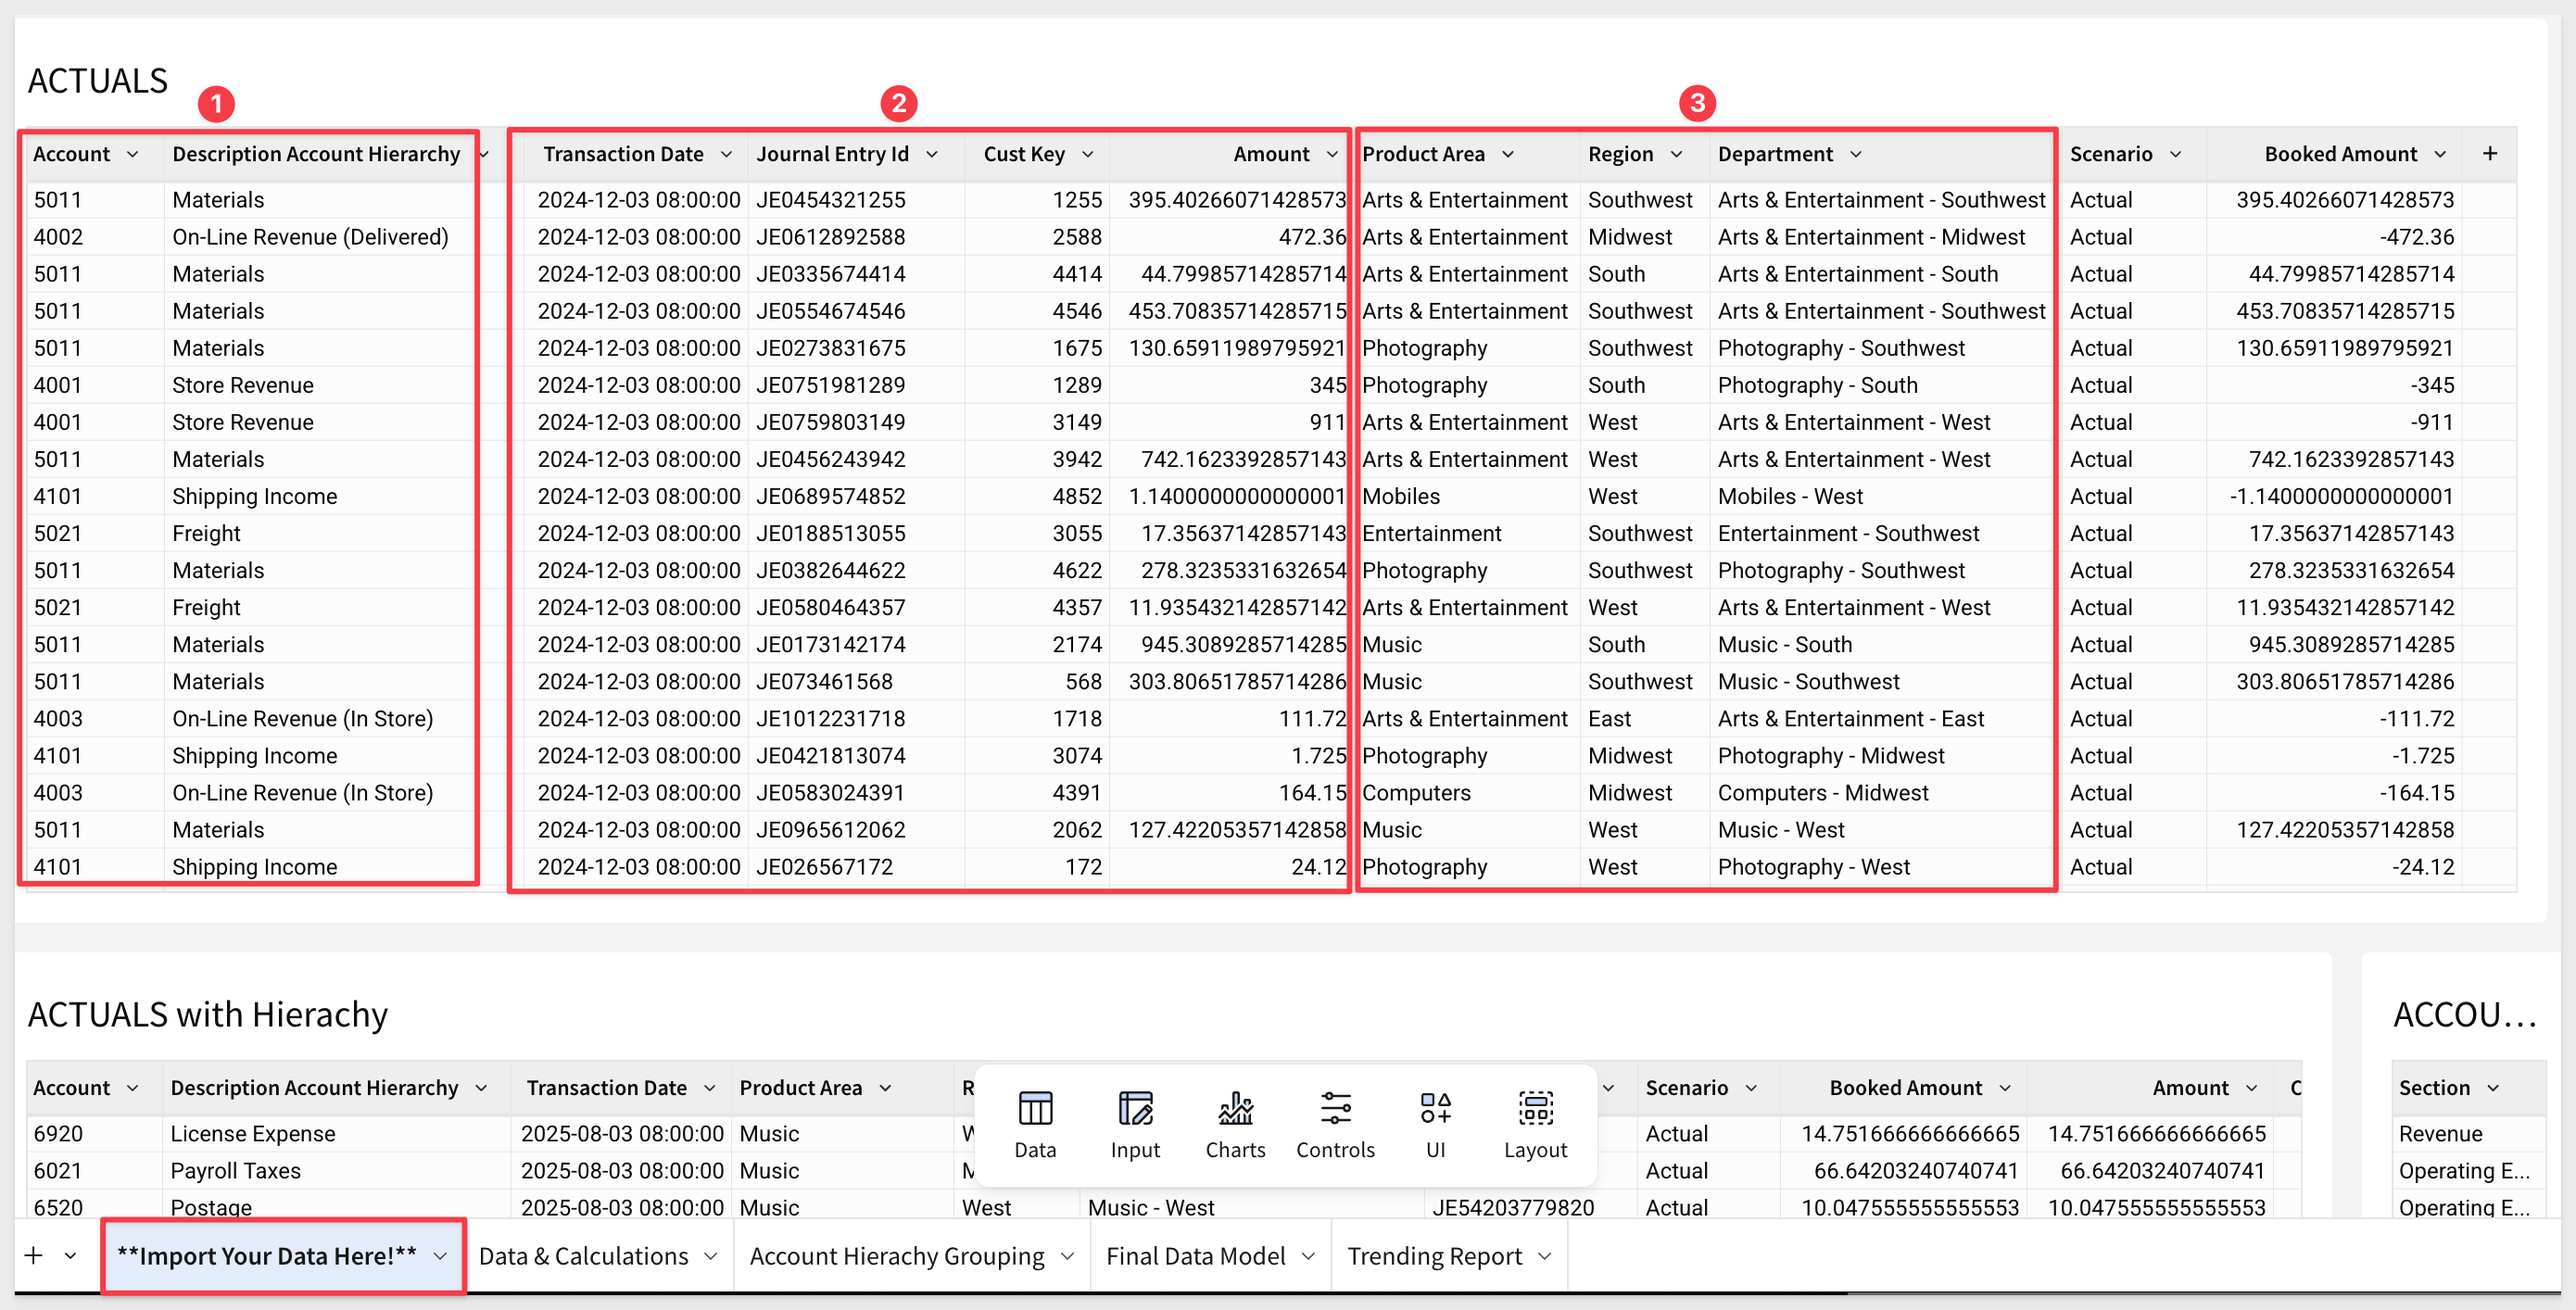
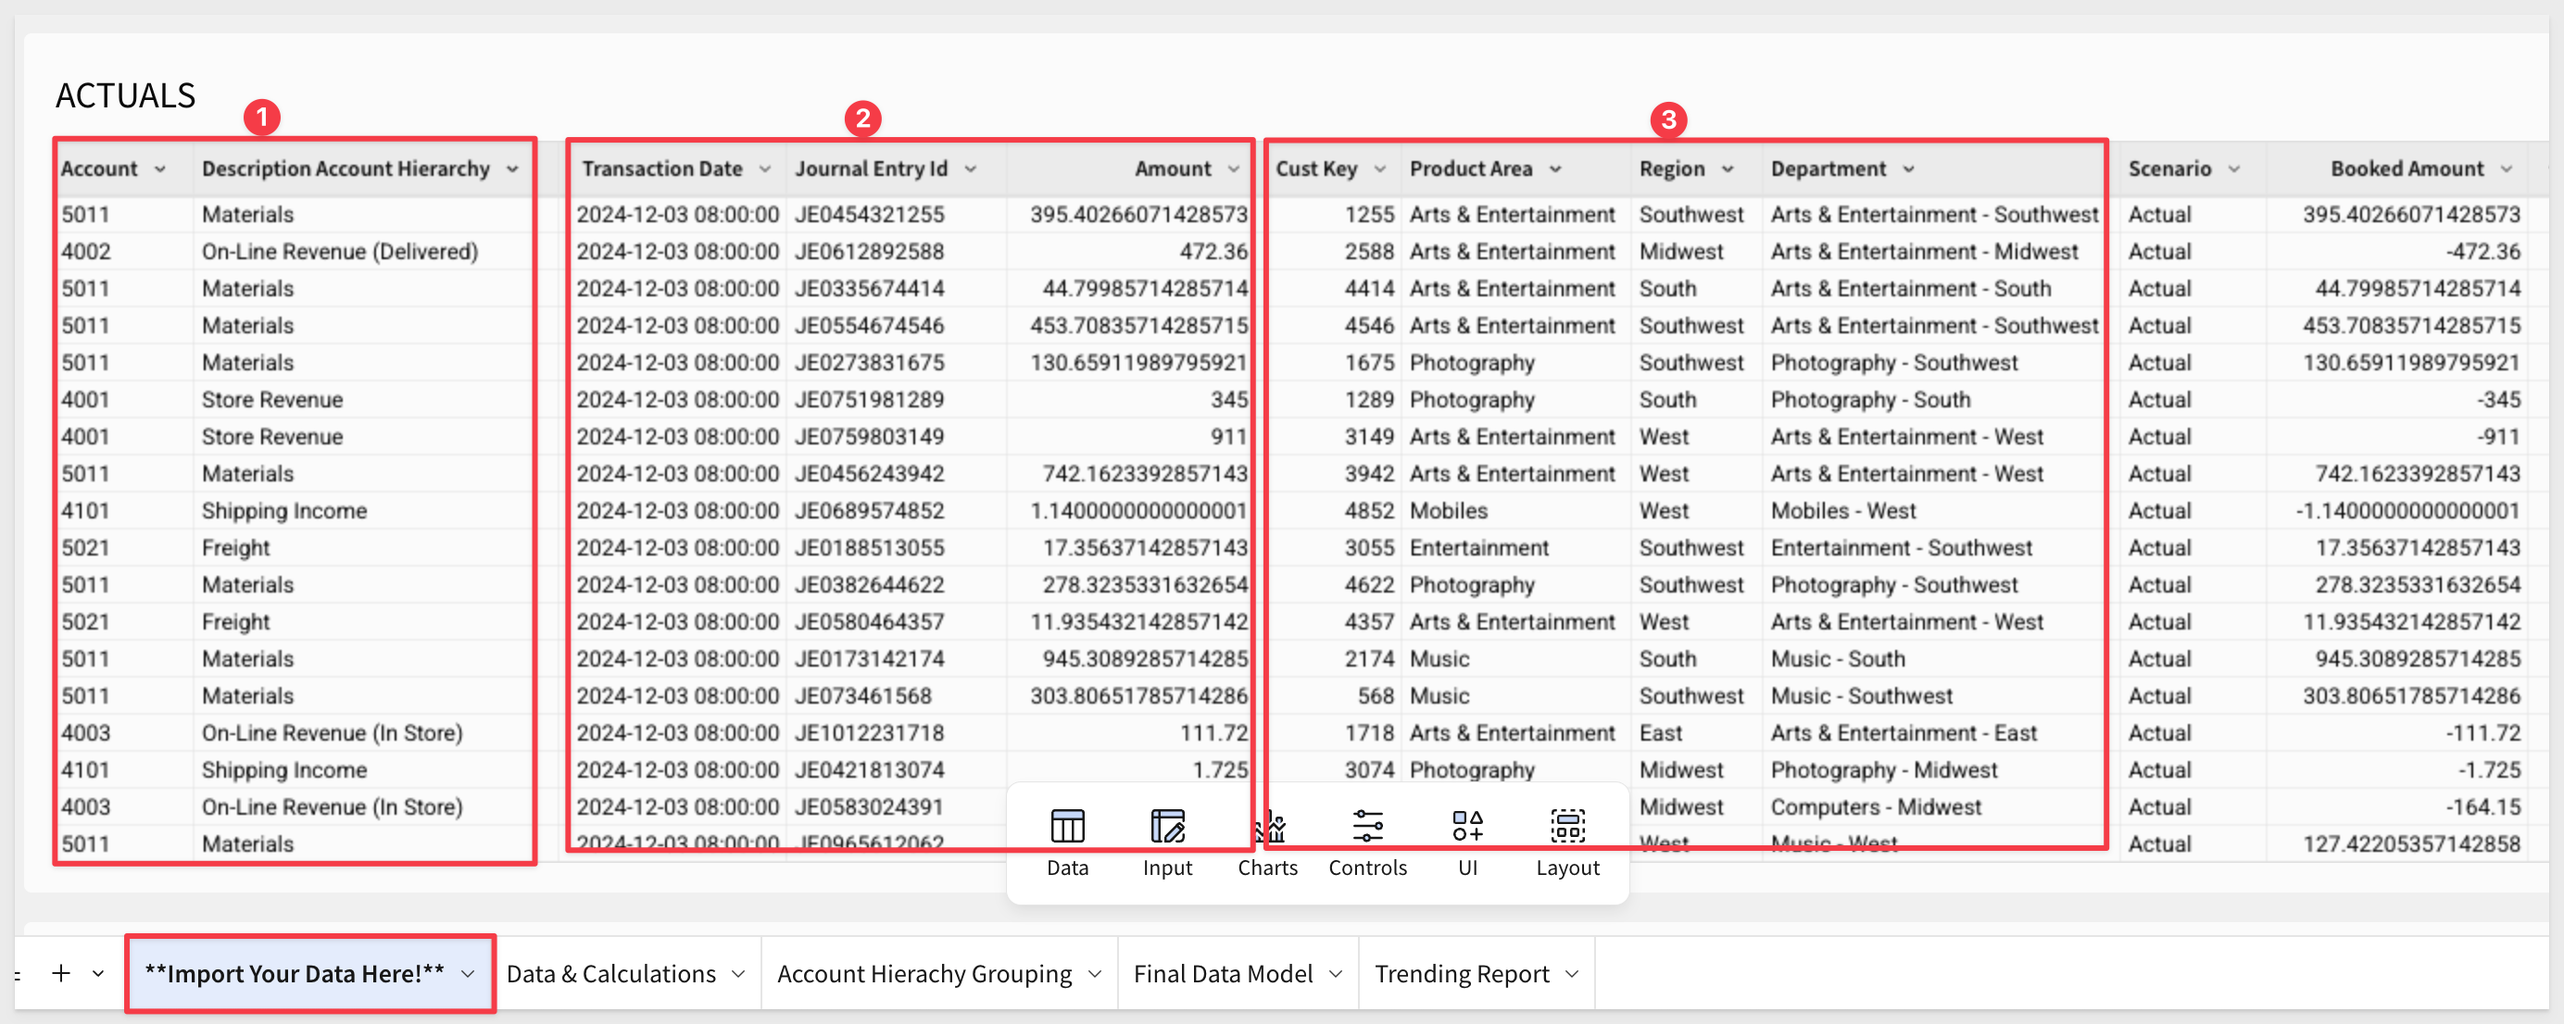
KH_fpna_change

Changed region(s): [[0.0, 0.0307, 0.9942, 1.0]]

diff --git a/site/sigmaguides/src/use_cases_fpna_report_based_on_template/use_cases_fpna_report_based_on_template.md b/site/sigmaguides/src/use_cases_fpna_report_based_on_template/use_cases_fpna_report_based_on_template.md
@@ -84,16 +84,16 @@ In short, these spreadsheets bring clarity and control to the uncertainty of bus
 ### About the Financial Data
 This QuickStart uses two core datasets commonly found in FP&A workflows:
 
-**Journal Entries**<br>
-The journal entries table forms the transactional backbone of your financials. It contains individual line items with key fields such as Transaction Date, Amount, Account, Department, and Region. It represents the raw, timestamped flow of financial activity across your business.
+**Financial Transaction**<br>
+The financial transaction entries table forms the transactional backbone of your financials. It contains individual line items with key fields such as Transaction Date, Amount, Account, Department, and Region. It represents the raw, timestamped flow of financial activity across your business.
 
 **Account Hierarchy**<br>
 This dataset defines how financial accounts roll up into broader reporting categories (e.g., Revenue → Operating Income → Net Income). It enables you to group, categorize, and report on financials at multiple levels of granularity.
 
 Together, these datasets allow you to model and visualize financial performance across departments, time periods, and account categories.
 
-### Understanding the Journal Entries Table
-The Journal Entries table typically includes three types of columns. (Note: Column order may vary depending on your data source.)
+### Understanding the Financial Transaction Table
+The Financial Transaction table typically includes three types of columns. (Note: Column order may vary depending on your data source.)
 
 **1. Account Hierarchy Values:**<br>
 Used to group data and create rollups in your FP&A report:
@@ -104,11 +104,11 @@ Used to group data and create rollups in your FP&A report:
 Each line item includes transactional detail for analysis:
 - Transaction Date
 - Journal Entry ID
-- Cust Key
 - Amount
 
 **3. Transaction Dimensional Attributes:**<br>
 Used to slice and filter financial data by business segments:
+- Cust Key
 - Product Area
 - Region
 - Department
